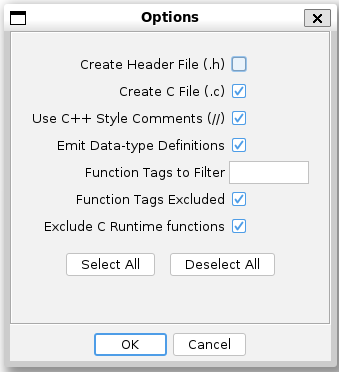
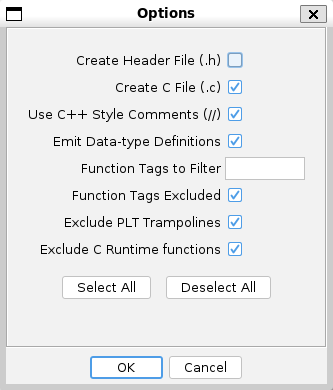
PLT Trampoline functions excluding (#4)
* feat: add PLT trampolines excluding into CppExporter

* docs: add plt excluding info to help

* fix: consider user choice

* feat: add PLTExcludeTest.java

* feat: finish up tests for plt, widen plt excluding in cppexporter

* chore: add plt trampoline excluding to image at help

* fix: formatting at CppExporter

---------

diff --git a/Ghidra/Features/Base/src/main/help/help/topics/ExporterPlugin/exporter.htm b/Ghidra/Features/Base/src/main/help/help/topics/ExporterPlugin/exporter.htm
@@ -287,10 +287,12 @@
             functions with a tag that matches any in the <B>Function Tags to Filter</B> list.   
             Deselect to include in export only functions with a tag that matches any in the list.
             </LI>
-
+            <LI><B>Exclude PLT Trampolines/Included</B> - Select to exclude PLT trampolines from export.   
+              Deselect to include PLT trampolines in export.
+            </LI>
             <LI><B>Exclude C Runtime functions/Included</B> - Select to exclude C Runtime library functions from export.   
               Deselect to include C Runtime functons in export.
-              </LI>
+            </LI>
           </UL>
         </BLOCKQUOTE>
 

diff --git a/Ghidra/Features/Decompiler/src/test.slow/java/ghidra/app/util/exporter/PLTExcludeTest.java b/Ghidra/Features/Decompiler/src/test.slow/java/ghidra/app/util/exporter/PLTExcludeTest.java
@@ -1,0 +1,102 @@
+/* ###
+ * IP: GHIDRA
+ *
+ * Licensed under the Apache License, Version 2.0 (the "License");
+ * you may not use this file except in compliance with the License.
+ * You may obtain a copy of the License at
+ * 
+ *      http://www.apache.org/licenses/LICENSE-2.0
+ * 
+ * Unless required by applicable law or agreed to in writing, software
+ * distributed under the License is distributed on an "AS IS" BASIS,
+ * WITHOUT WARRANTIES OR CONDITIONS OF ANY KIND, either express or implied.
+ * See the License for the specific language governing permissions and
+ * limitations under the License.
+ */
+package ghidra.app.util.exporter;
+
+import static org.junit.Assert.*;
+
+import org.junit.*;
+
+import java.io.File;
+import java.util.List;
+import java.nio.file.Files;
+import java.nio.file.Paths;
+
+import ghidra.program.model.listing.Program;
+import ghidra.program.model.lang.*;
+import ghidra.program.util.DefaultLanguageService;
+import ghidra.util.task.TaskMonitor;
+import ghidra.framework.Application;
+import ghidra.base.project.GhidraProject;
+import ghidra.app.plugin.core.analysis.AutoAnalysisManager;
+import ghidra.app.util.exporter.CppExporter;
+import ghidra.test.TestEnv;
+import ghidra.framework.Application;
+import utility.application.ApplicationLayout;
+import utility.application.DummyApplicationLayout;
+import ghidra.framework.ApplicationConfiguration;
+import ghidra.framework.options.Options;
+import ghidra.test.AbstractGhidraHeadlessIntegrationTest;
+
+public class PLTExcludeTest extends AbstractGhidraHeadlessIntegrationTest {
+	private Exporter exporter = new CppExporter(null, false, true, false, false, null);
+	private int transactionID;
+	private Program program;
+	private GhidraProject testProject;
+	private File testBinary = new File("../../Test/TestResources/src/cpp/simpleHelloWorld/simple_hello_world");
+	private File testFile = new File("testFile.c");
+	private TestEnv env;
+
+	@Before
+	public void setUp() throws Exception {
+		ApplicationLayout dummyLayout = new DummyApplicationLayout("TestLayout");
+		ApplicationConfiguration configuration = new ApplicationConfiguration();
+		if (!Application.isInitialized()) {
+			Application.initializeApplication(dummyLayout, configuration);
+		}
+		env = new TestEnv();
+		testProject = env.getGhidraProject();
+		Language language = getLanguage("x86:LE:32:default");
+		program = testProject.importProgram(testBinary, language, language.getDefaultCompilerSpec());
+		transactionID = program.startTransaction("Test");
+		AutoAnalysisManager analysisManager = AutoAnalysisManager.getAnalysisManager(program);
+		analysisManager.reAnalyzeAll(program.getMemory().getLoadedAndInitializedAddressSet());
+		analysisManager.startAnalysis(TaskMonitor.DUMMY, false);
+	}
+
+	@After
+	public void tearDown() throws Exception {
+		if (program != null) {
+			program.endTransaction(transactionID, true);
+		}
+		testFile.delete();
+		testProject.close();
+	}
+
+	private String[] PLTFunctionNames = { "void FUN_00101040", "void FUN_00101050" };
+
+	@Test
+	public void testExcludePLT() throws Exception {
+		assertTrue(exporter.export(testFile, program, null, TaskMonitor.DUMMY));
+		List<String> lines = Files.readAllLines(Paths.get("testFile.c"));
+		for (String line : lines) {
+			for (String PLTFunctionName : PLTFunctionNames) {
+				assertFalse(line.contains(PLTFunctionName));
+			}
+		}
+	}
+
+	protected void setAnalysisOptions(String optionName) {
+		int txId = program.startTransaction("Analyze");
+		Options analysisOptions = program.getOptions(Program.ANALYSIS_PROPERTIES);
+		analysisOptions.setBoolean(optionName, false);
+		program.endTransaction(txId, true);
+	}
+
+	private Language getLanguage(String languageName) throws LanguageNotFoundException {
+		LanguageService languageService = DefaultLanguageService.getLanguageService();
+		return languageService.getLanguage(new LanguageID(languageName));
+	}
+}

diff --git a/Ghidra/Features/Decompiler/src/main/java/ghidra/app/util/exporter/CppExporter.java b/Ghidra/Features/Decompiler/src/main/java/ghidra/app/util/exporter/CppExporter.java
@@ -49,6 +49,7 @@ public class CppExporter extends Exporter {
 	public static final String EMIT_TYPE_DEFINITONS = "Emit Data-type Definitions";
 	public static final String FUNCTION_TAG_FILTERS = "Function Tags to Filter";
 	public static final String FUNCTION_TAG_EXCLUDE = "Function Tags Excluded";
+	public static final String PLT_TRAMPOLINES_EXCLUDE = "Exclude PLT Trampolines";
 	public static final String C_RUNTIME_EXCLUDE = "Exclude C Runtime functions";
 
 	private static String EOL = System.getProperty("line.separator");
@@ -57,6 +58,7 @@ public class CppExporter extends Exporter {
 	private boolean isCreateCFile = true;
 	private boolean isUseCppStyleComments = true;
 	private boolean emitDataTypeDefinitions = true;
+	private boolean excludePLTTrampolines = true;
 	private boolean excludeCRuntime = true;
 	private String tagOptions = "";
 
@@ -189,6 +191,33 @@ public class CppExporter extends Exporter {
 		writeResults(results, headerWriter, cFileWriter, chunkingMonitor);
 	}
 
+	private static final String PLT_TRAMPOLINE_INSTRUCTION_QWORD = "JMP qword ptr";
+	private static final String PLT_TRAMPOLINE_INSTRUCTION_DWORD = "JMP dword ptr";
+
+	private boolean isPLTTrampoline(Function function) {
+		Program program = function.getProgram();
+		Listing listing = program.getListing();
+		AddressSetView body = function.getBody();
+		for (Address address : body.getAddresses(true)) {
+			CodeUnit codeUnit = listing.getCodeUnitAt(address);
+			if (!(codeUnit instanceof Instruction))
+				continue;
+			Instruction instruction = (Instruction) codeUnit;
+			String instructionString = instruction.toString();
+			if (instructionString.startsWith(PLT_TRAMPOLINE_INSTRUCTION_QWORD)
+					|| instructionString.startsWith(PLT_TRAMPOLINE_INSTRUCTION_DWORD)) {
+				Object inputObject = instruction.getInputObjects()[0];
+				if (!(inputObject instanceof Address))
+					continue;
+				Address jmpAddress = (Address) inputObject;
+				if (!(body.contains(jmpAddress))) {
+					return true;
+				}
+			}
+		}
+		return false;
+	}
+
 	private static final String CRT_PREFIX = "_";
 
 	private boolean isCRTFunction(Function function) {
@@ -197,6 +226,10 @@ public class CppExporter extends Exporter {
 	}
 	
 	private boolean excludeFunction(Function currentFunction) {
+
+		if (excludePLTTrampolines && isPLTTrampoline(currentFunction)) {
+			return true;
+		}
 
 		if (excludeCRuntime && isCRTFunction(currentFunction)) {
 			return true;
@@ -358,6 +391,7 @@ public class CppExporter extends Exporter {
 		list.add(new Option(EMIT_TYPE_DEFINITONS, Boolean.valueOf(emitDataTypeDefinitions)));
 		list.add(new Option(FUNCTION_TAG_FILTERS, tagOptions));
 		list.add(new Option(FUNCTION_TAG_EXCLUDE, Boolean.valueOf(excludeMatchingTags)));
+		list.add(new Option(PLT_TRAMPOLINES_EXCLUDE, Boolean.valueOf(excludePLTTrampolines)));
 		list.add(new Option(C_RUNTIME_EXCLUDE, Boolean.valueOf(excludeCRuntime)));
 		return list;
 	}
@@ -384,6 +418,9 @@ public class CppExporter extends Exporter {
 				}
 				else if (optName.equals(FUNCTION_TAG_EXCLUDE)) {
 					excludeMatchingTags = ((Boolean) option.getValue()).booleanValue();
+				}
+				else if (optName.equals(PLT_TRAMPOLINES_EXCLUDE)) {
+					excludePLTTrampolines = ((Boolean) option.getValue()).booleanValue();
 				}
 				else if (optName.equals(C_RUNTIME_EXCLUDE)) {
 					excludeCRuntime = ((Boolean) option.getValue()).booleanValue();
